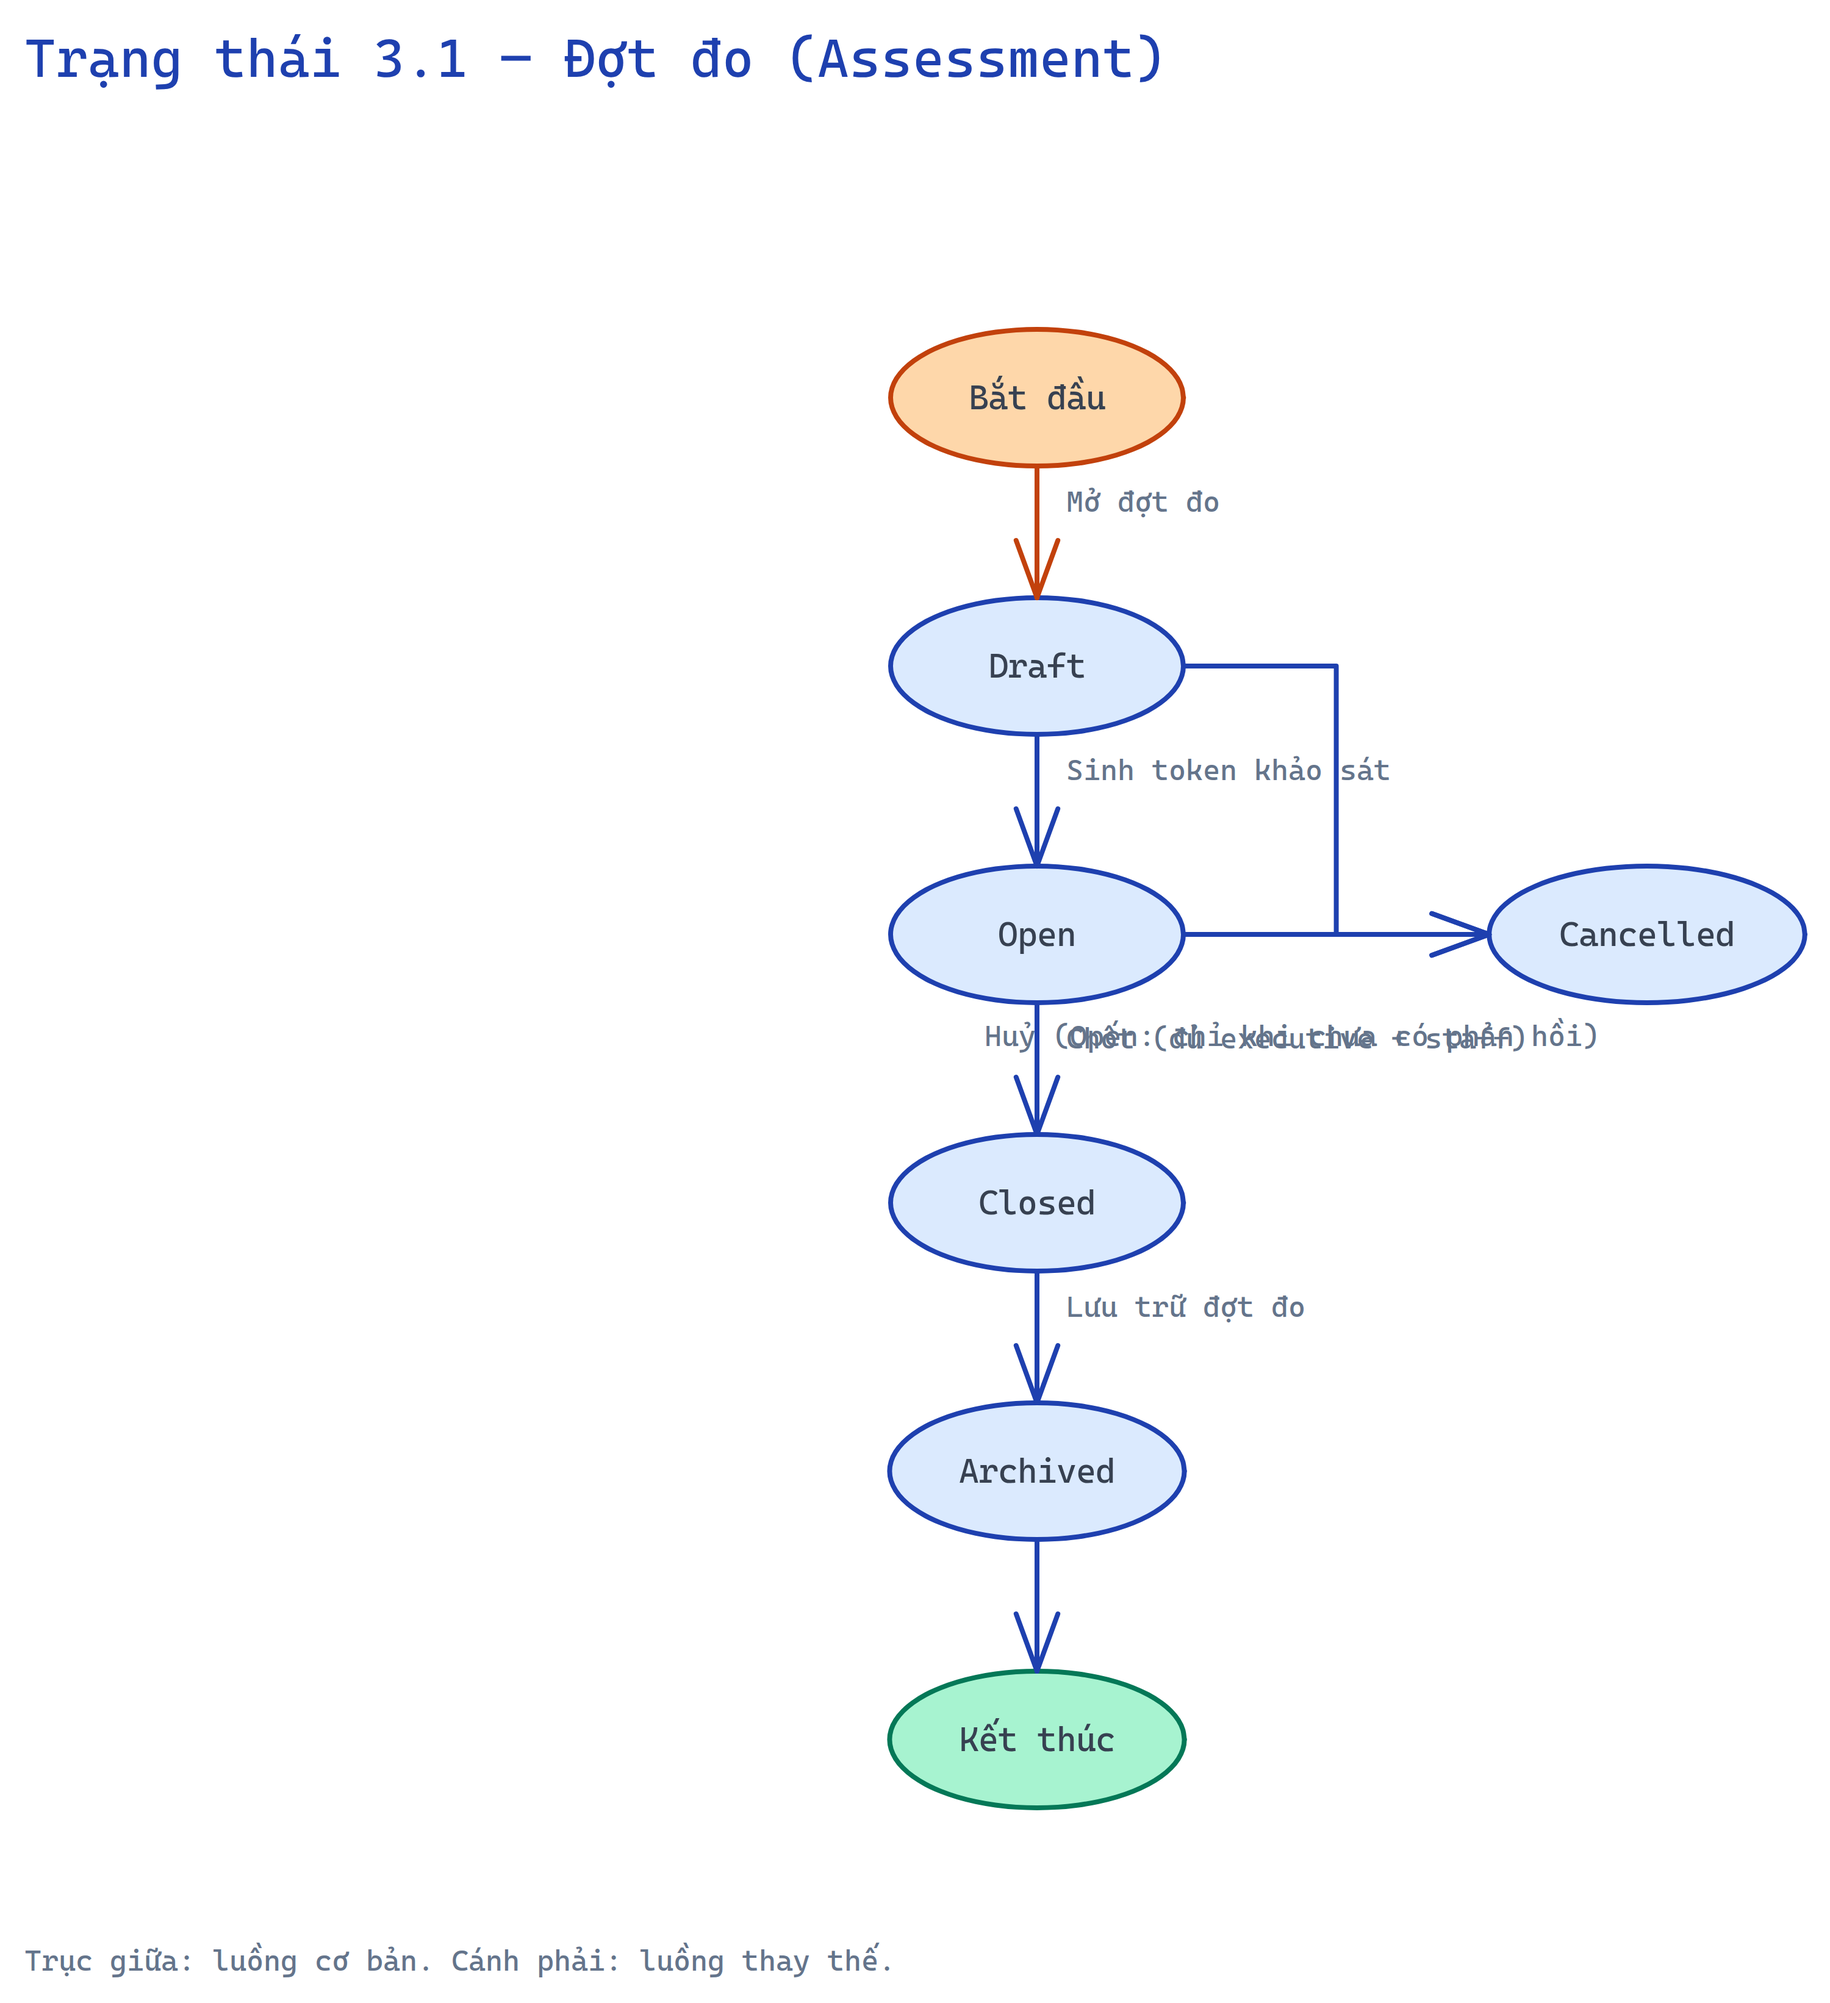
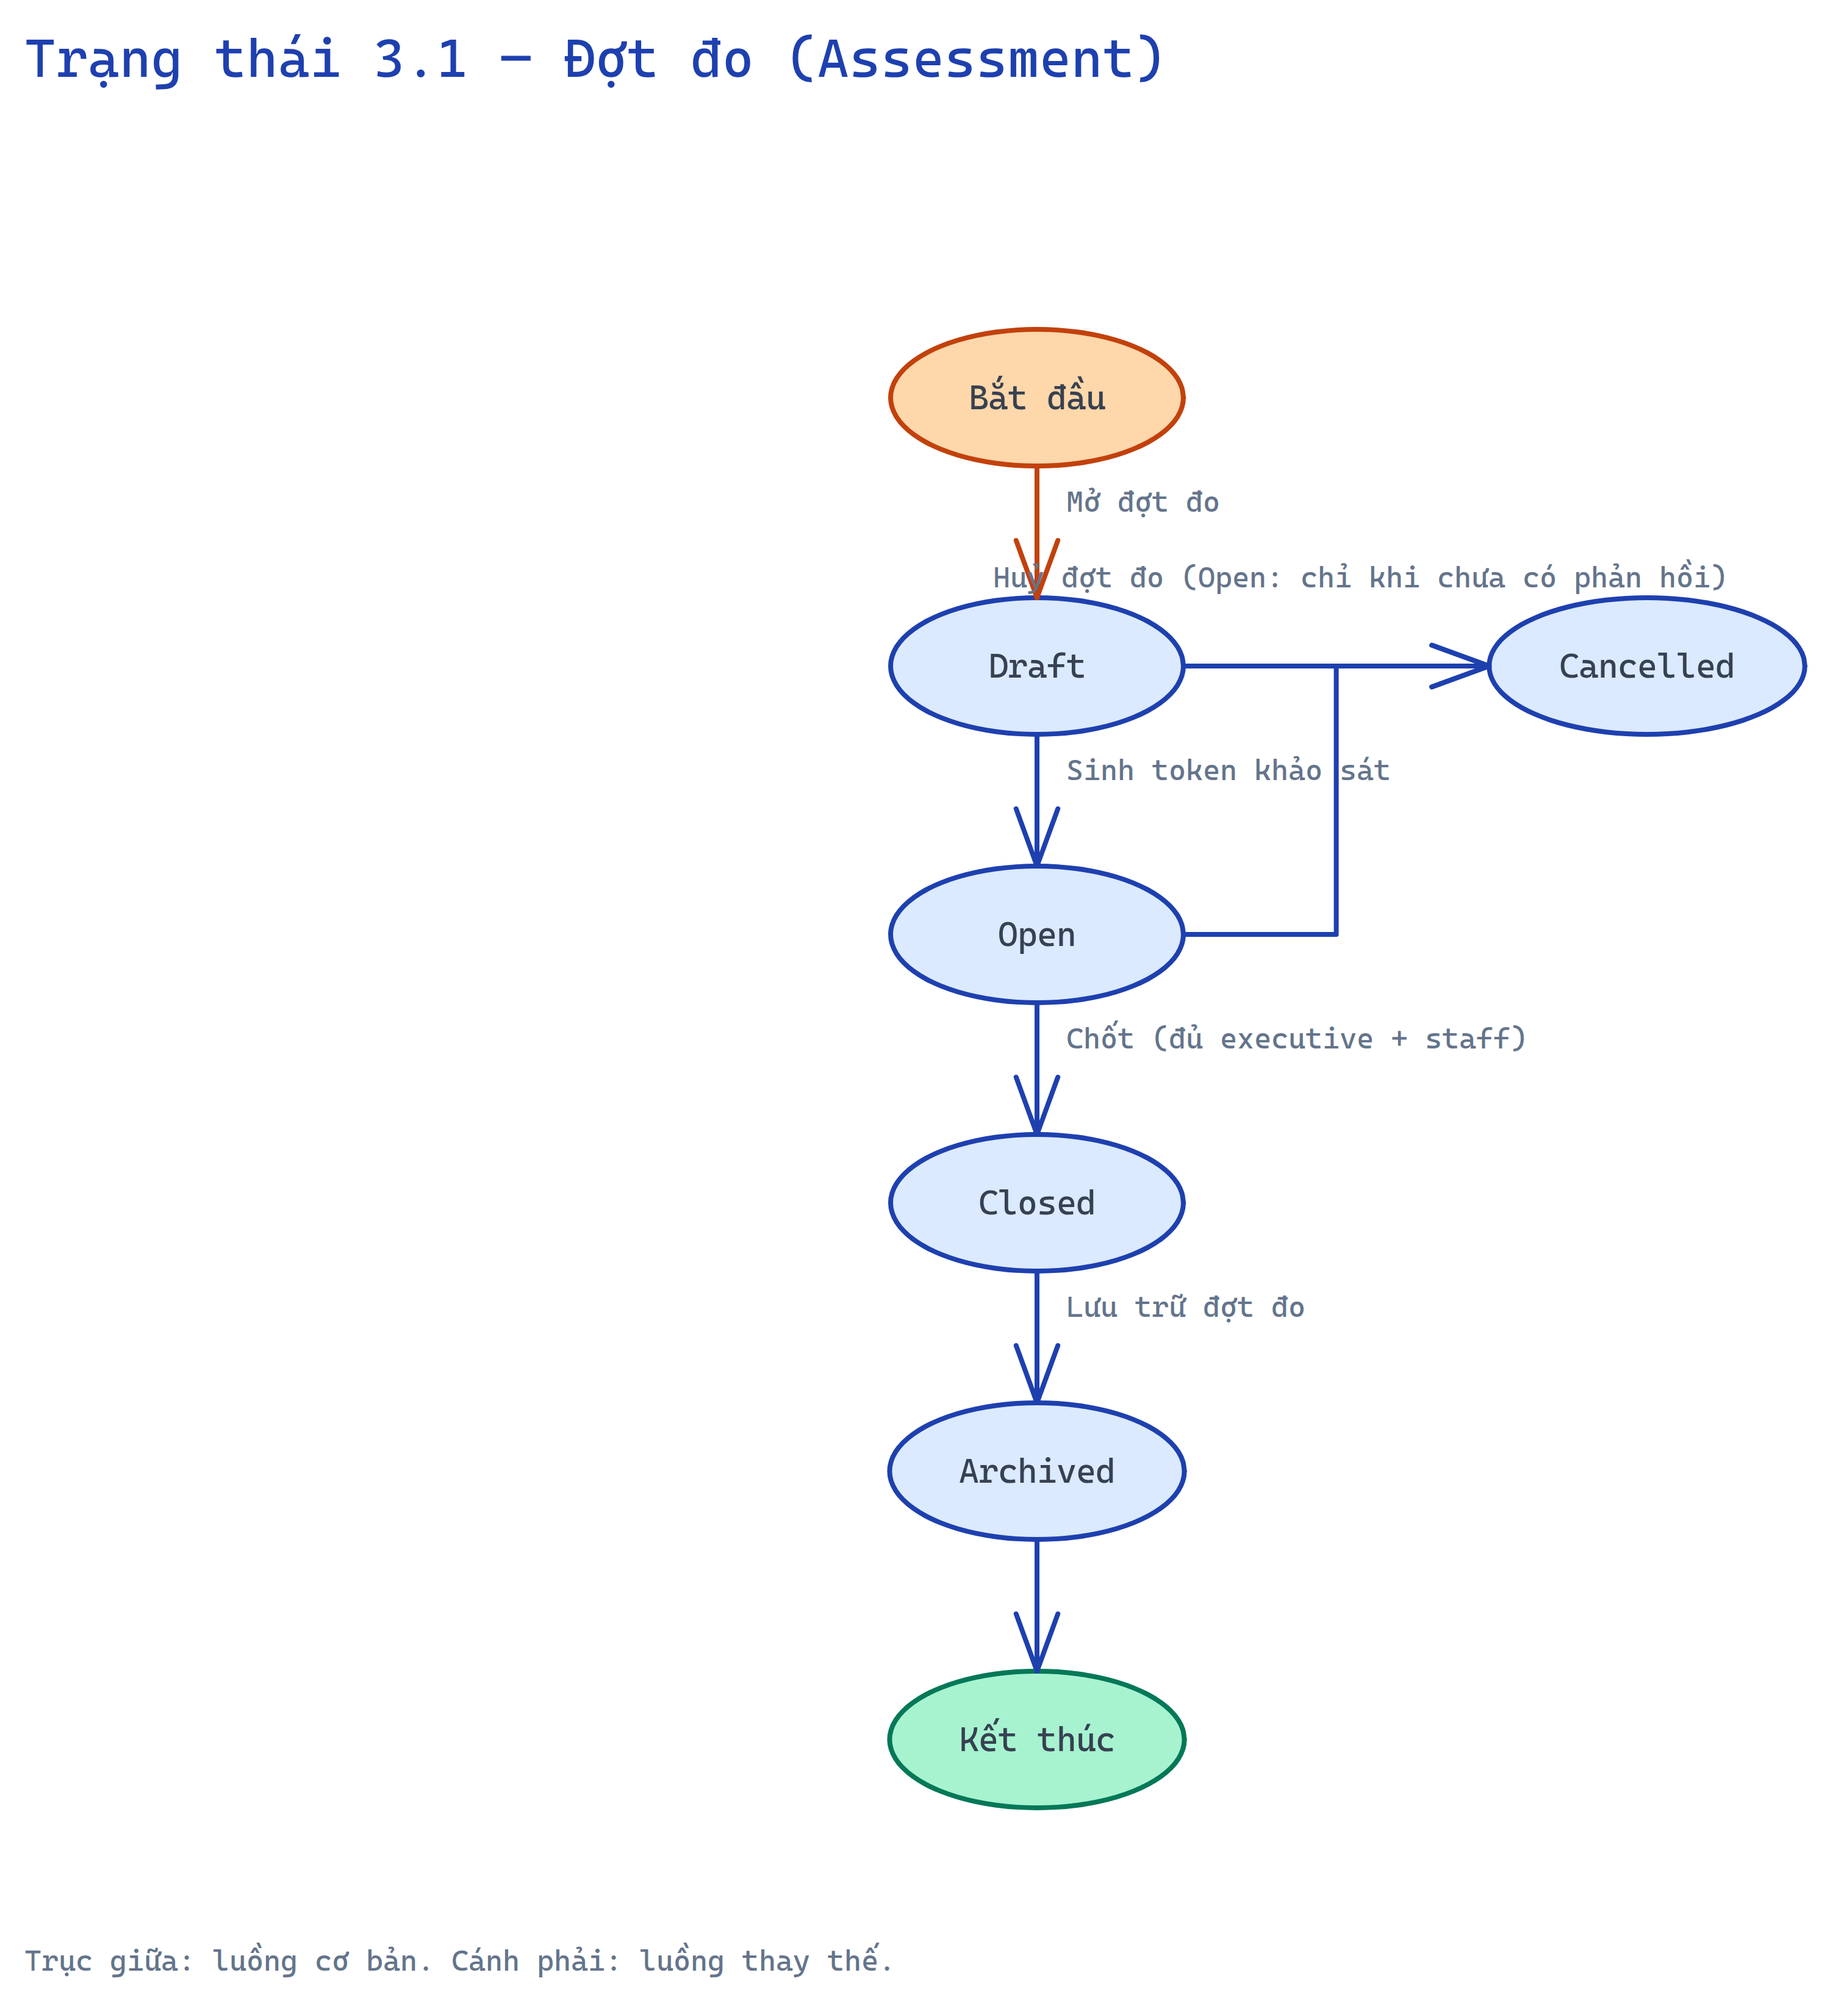
docs(ba): merge cancel transitions in assessment state diagram

diff --git a/docs/ba/diagrams/specs.py b/docs/ba/diagrams/specs.py
@@ -97,9 +97,9 @@ DIAGRAMS["swimlane-04-lenh-ai"] = dict(
 def ST(i,col,row,label,kind="state"): return N(i,None,col,kind,label,row)
 DIAGRAMS["state-01-dot-do"] = dict(title="Trạng thái 3.1 — Đợt đo (Assessment)",
  nodes=[ST("s",1,0,"Bắt đầu","start"),ST("draft",1,1,"Draft"),ST("open",1,2,"Open"),ST("closed",1,3,"Closed"),ST("arch",1,4,"Archived"),ST("e",1,5,"Kết thúc","end"),
-  ST("cancel",2,2,"Cancelled")],
+  ST("cancel",2,1,"Cancelled")],
  edges=[E("s","draft","Mở đợt đo"),E("draft","open","Sinh token khảo sát"),E("open","closed","Chốt (đủ executive + staff)"),E("closed","arch","Lưu trữ đợt đo"),E("arch","e"),
-  E("draft","cancel"),E("open","cancel","Huỷ (Open: chỉ khi chưa có phản hồi)",below=True)],
+  E("draft","cancel"),E("open","cancel","Huỷ đợt đo (Open: chỉ khi chưa có phản hồi)")],
  legend="Trục giữa: luồng cơ bản. Cánh phải: luồng thay thế.")
 
 DIAGRAMS["state-02-ticket"] = dict(title="Trạng thái 3.2 — Ticket (DX-Ticket)",
